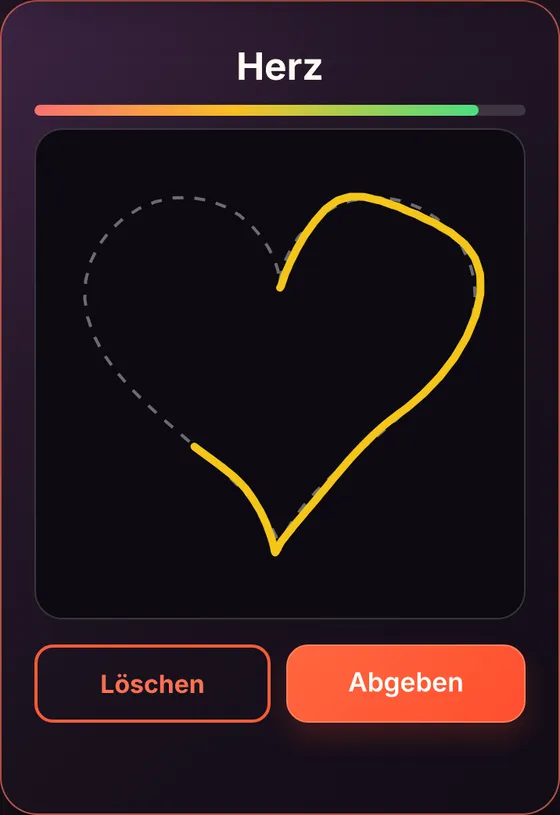
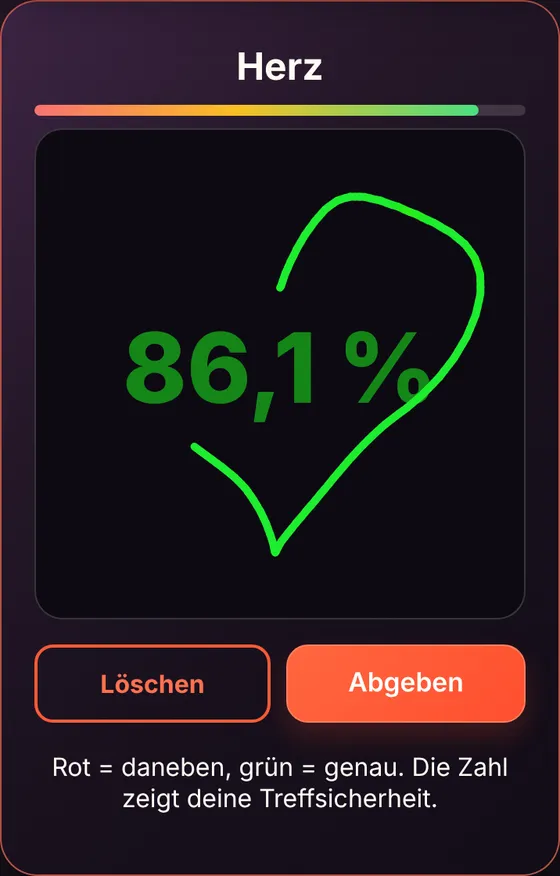
v438: Nachmalen mit Live-Prozent, rot/gruener Strich, Vorlage verschwindet; Revierkampf: Gebiet sofort in Spielerfarbe, duenner Rahmen
Claude-Session: https://claude.ai/code/session_01Bq3j1UmgmmQRjdUKFtX7an

diff --git a/spiele/nachzeichnen/spiel.js b/spiele/nachzeichnen/spiel.js
@@ -15,7 +15,7 @@ import {
 } from "../../kern/firebase.js";
 import { spielerKarte, zeigeDebug, initBereitSystem } from "../../kern/ui.js";
 import { speichereWertung, punkteNachRang } from "../../kern/wertung.js";
-import { FORMEN, formPerId, waehleFormen, bewerteZeichnung, packe, entpacke, strichLaenge } from "./logik.js";
+import { FORMEN, formPerId, waehleFormen, bewerteZeichnung, packe, entpacke, strichLaenge, zielPunkte, abstandZuZiel, liveProzent, genauWert } from "./logik.js";
 
 const ZEIT_SEKUNDEN = 30;
 const AUSWERTUNG_PUFFER_MS = 12000;   // Sicherheitsnetz, falls jemand nie abgibt
@@ -28,7 +28,9 @@ const FARBEN = ["#f87171", "#60a5fa", "#4ade80", "#fbbf24", "#c084fc", "#f472b6"
 const VORLAGE = `
   <div id="nz-setup" class="bildschirm-karte" hidden>
     <p class="hinweis-text">Alle sehen dieselbe Form als gestrichelte Vorlage - vom Haus bis zur Spirale.
-      Zeichne sie mit dem Finger möglichst genau nach, du hast 30 Sekunden. Wer am genauesten zeichnet,
+      Sobald du den Finger aufsetzt, verschwindet die Vorlage: du musst sie dir merken und aus dem Gedächtnis
+      zeichnen. Beim Malen siehst du live deine Treffsicherheit, der Strich wird rot (daneben) oder grün (genau).
+      Du hast 30 Sekunden. Wer am genauesten zeichnet,
       bekommt die meisten Punkte. Mit "Löschen" darfst du neu ansetzen, mit "Abgeben" zählt es.</p>
 
     <div id="nz-anzahl-zeile" class="setup-anzahlblock" hidden>
@@ -197,7 +199,7 @@ export function raumDaten(daten) {
   const neuerStart = daten.nzStart ?? 0;
   if (status === "runde_aktiv" && (rundenIndex !== neuerIndex || startZeit !== neuerStart)) {
     rundenIndex = neuerIndex;
-    startZeit = neuerStart;
+    startZeit = neuerStart; vorlageWeg = false;
     striche = []; aktuellerStrich = null; abgegeben = false; auswertungLaeuft = false;
   } else if (status === "ausgewertet") {
     rundenIndex = neuerIndex;
@@ -341,14 +343,62 @@ function striceZeichnen(ctx, css, liste, farbe, breite, alpha = 1) {
   ctx.restore();
 }
 
+let zielCache = null, zielCacheId = "", vorlageWeg = false;
+function zielFuerRunde() {
+  const id = formIds[rundenIndex];
+  if (zielCacheId !== id) { zielCache = zielPunkte(formPerId(id)); zielCacheId = id; }
+  return zielCache;
+}
+const farbeFuer = (t) => `hsl(${Math.round(t * 125)}, 85%, ${Math.round(46 + 6 * t)}%)`;
+
+// Strich Segment für Segment einfärben: rot = weit weg von der Form, grün = genau
+function liveStricheZeichnen(ctx, css, liste, ziel) {
+  ctx.save();
+  ctx.lineWidth = 5; ctx.lineCap = "round"; ctx.lineJoin = "round";
+  for (const st of liste) {
+    if (!st._w) st._w = [];
+    for (let i = st._w.length; i < st.length; i++) st._w[i] = genauWert(abstandZuZiel(st[i], ziel));
+    if (st.length === 1) continue;
+    for (let i = 1; i < st.length; i++) {
+      const [x0, y0] = bildPunkt(css, st[i - 1]), [x1, y1] = bildPunkt(css, st[i]);
+      ctx.strokeStyle = farbeFuer((st._w[i] + st._w[i - 1]) / 2);
+      ctx.beginPath(); ctx.moveTo(x0, y0); ctx.lineTo(x1, y1); ctx.stroke();
+    }
+  }
+  ctx.restore();
+}
+
 function zeichneRunde() {
   if (!el.wurzel) return;
   const canvas = $("nz-canvas");
   const { ctx, css } = richteCanvasEin(canvas);
   ctx.clearRect(0, 0, css, css);
-  vorlageZeichnen(ctx, css, formPerId(formIds[rundenIndex]));
   const meine = aktuellerStrich ? [...striche, aktuellerStrich] : striche;
-  striceZeichnen(ctx, css, meine, eigeneFarbe(), 5);
+  const ziel = zielFuerRunde();
+  const hatGemalt = meine.length > 0;
+  if (hatGemalt) vorlageWeg = true;
+  if (!vorlageWeg) vorlageZeichnen(ctx, css, formPerId(formIds[rundenIndex]));
+  // große Prozentzahl in der Mitte (Treffsicherheit live, nach dem Abgeben die Endwertung)
+  let zahl = null;
+  if (hatGemalt && abgegeben) {
+    const mein = antwortenDieserRunde(rundenIndex).find((a) => a.spielerId === api.spielerId);
+    zahl = mein && Number.isFinite(mein.genauigkeit) ? mein.genauigkeit : liveProzent(ziel, meine);
+  } else if (hatGemalt) zahl = liveProzent(ziel, meine);
+  if (zahl !== null) {
+    ctx.save();
+    ctx.textAlign = "center"; ctx.textBaseline = "middle";
+    ctx.font = `800 ${Math.round(css * 0.2)}px system-ui, sans-serif`;
+    ctx.fillStyle = farbeFuer(Math.max(0, Math.min(1, zahl / 90)));
+    ctx.globalAlpha = 0.55;
+    ctx.fillText(zahl.toFixed(1).replace(".", ",") + " %", css / 2, css / 2);
+    ctx.restore();
+  }
+  if (!abgegeben) {
+    $("nz-status").textContent = vorlageWeg
+      ? "Rot = daneben, grün = genau. Die Zahl zeigt deine Treffsicherheit."
+      : "Präg dir die Form ein - sie verschwindet, sobald du anfängst!";
+  }
+  liveStricheZeichnen(ctx, css, meine, ziel);
 }
 
 function eigeneFarbe() {

diff --git a/spiele/anleitungen-daten.js b/spiele/anleitungen-daten.js
@@ -1002,15 +1002,16 @@ ANLEITUNGEN.nachzeichnen = [
     s: () => T(160, 90, "Nachmalen!", 22, "#fff", 800)
   },
   {
-    t: "Nachzeichnen",
-    x: ["Zeichne die Form mit dem **Finger** möglichst genau auf der Vorlage nach. Du hast dafür **30 Sekunden** - der Balken oben zeigt die Restzeit.",
-      "Mit **Löschen** setzt du neu an, mit **Abgeben** zählt deine Zeichnung. Du darfst auch mehrmals absetzen. Läuft die Zeit ab, wird automatisch abgegeben."],
+    t: "Aus dem Gedächtnis malen",
+    x: ["Prägt dir die Form ein: **Sobald du den Finger aufsetzt, verschwindet die Vorlage** - du musst sie dir merken und aus dem Gedächtnis nachzeichnen. Du hast **30 Sekunden**, der Balken oben zeigt die Restzeit.",
+      "Beim Malen siehst du **live deine Treffsicherheit in Prozent**. Der Strich färbt sich **grün, wenn er genau auf der Form liegt**, und **rot, wenn er daneben liegt**.",
+      "Mit **Löschen** setzt du neu an (die Vorlage kommt nicht zurück), mit **Abgeben** zählt deine Zeichnung. Läuft die Zeit ab, wird automatisch abgegeben."],
     s: () => T(160, 90, "30 s", 40, "#fff", 800)
   },
   {
     t: "Genauigkeit und Punkte",
     x: ["Bewertet wird in **Prozent**: Wie dicht liegt deine Linie an der Vorlage - und hast du die **ganze Form** nachgezeichnet? Eine halbe Form oder ein Gekritzel bringt wenig.",
-      "Wer am **genauesten** ist, ist Platz 1. " + PL, "Wer nichts abgibt, bekommt 0 Punkte. Nach jeder Runde siehst du **alle Zeichnungen übereinander**.", RUNDEN, GW],
+      "Wer am **genauesten** ist, ist Platz 1. " + PL, "Wer nichts abgibt, bekommt 0 Punkte. Die Zahl beim Malen zählt nur die Treffsicherheit - in der Endwertung wird zusätzlich geprüft, ob du die **ganze Form** gemalt hast. Nach jeder Runde siehst du **alle Zeichnungen** samt Vorlage.", RUNDEN, GW],
     s: () => rang(70, 22, [["Du", "96 % · 5", 0], ["Luca", "81 % · 3", 1], ["Kevin", "65 % · 2", 2], ["Sinan", "37 % · 1", 3]], 180)
   }
 ];

diff --git a/spiele/nachzeichnen/logik.js b/spiele/nachzeichnen/logik.js
@@ -124,6 +124,20 @@ export function bewerteZeichnung(form, striche) {
   return Math.round(roh * vollstaendig * 1000) / 10;
 }
 
+// ---- Live-Anzeige beim Zeichnen
+export function zielPunkte(form) { return verdichte(form.pt, form.geschlossen, 0.025); }
+export function abstandZuZiel(p, ziel) { return naechsterAbstand(p, ziel); }
+// Toleranz-/Prozentformel wie bei der Endwertung, aber nur "Treffsicherheit" (ohne Lückenabzug),
+// damit die Zahl schon beim Zeichnen sinnvoll ist.
+export function liveProzent(ziel, striche) {
+  let summe = 0, n = 0;
+  for (const st of striche) for (const m of verdichte(st, false, 0.025)) { summe += naechsterAbstand(m, ziel); n++; }
+  if (!n) return null;
+  return Math.round(Math.pow(Math.max(0, 1 - summe / n / TOLERANZ), 1.2) * 1000) / 10;
+}
+// 0 (weit weg) .. 1 (genau) -> für die Farbe
+export function genauWert(d) { return Math.max(0, Math.min(1, 1 - (d - 0.03) / 0.12)); }
+
 // Mischt alle Formen und liefert die ersten n (bei mehr als vorhanden: nochmal gemischt hinten dran)
 export function waehleFormen(n) {
   const mische = () => {

diff --git a/spiele/anleitungen.js b/spiele/anleitungen.js
@@ -3,7 +3,7 @@
 //  Wird erst beim Klick auf "Spiele" (Startseite) geladen.
 // ============================================================================
 import { SPIELE } from "./register.js?v=335";
-import { ANLEITUNGEN, szene } from "./anleitungen-daten.js?v=437";
+import { ANLEITUNGEN, szene } from "./anleitungen-daten.js?v=438";
 
 const esc = (s) => String(s).replace(/&/g, "&amp;").replace(/</g, "&lt;").replace(/>/g, "&gt;");
 const fett = (s) => esc(s).replace(/\*\*(.+?)\*\*/g, "<strong>$1</strong>");
@@ -18,7 +18,7 @@ function vorladen(pfad) {
   img.decoding = "async";
   img.src = pfad;
 }
-const fotoPfad = (id, nr) => `bilder/anleitung/${id}-${nr + 1}.webp?v=437`;
+const fotoPfad = (id, nr) => `bilder/anleitung/${id}-${nr + 1}.webp?v=438`;
 function alleKachelnVorladen() { SPIELE.forEach((s) => vorladen(s.bild)); }
 function seitenVorladen(id) { (ANLEITUNGEN[id] || []).forEach((f, i) => { if (!f.ohneFoto) vorladen(fotoPfad(id, i)); }); }
 

diff --git a/spiele/revier/spiel.js b/spiele/revier/spiel.js
@@ -905,11 +905,15 @@ function baueSpielfeld(layout) {
     ctx.drawImage(boden, 0, 0, W, H);
     const l = lage(bm);
     if (l.modus === "sichern") {
-      ctx.fillStyle = "rgba(255,255,255,0.32)";
+      // Gebiet unter der eigenen Figur sofort in der eigenen Farbe zeigen (Vorschau);
+      // sichert jemand anderes es, wird es hier zur Farbe des anderen (Boden) und die Vorschau entfaellt.
+      ctx.fillStyle = farbeVon(api.spielerId);
+      ctx.globalAlpha = 0.9;
       for (let k = 0; k < w * h; k++) {
         if (reg[k] === l.g) ctx.fillRect(ox + (k % w) * c, oy + Math.floor(k / w) * c, Math.ceil(c), Math.ceil(c));
       }
-      kanten(l.g, "#fde047", Math.max(3, c * 0.2));
+      ctx.globalAlpha = 1;
+      kanten(l.g, "#fde047", Math.max(1.5, c * 0.08));
     }
     // Figuren der anderen (geglättet); wer schon ein Gebiet hat, steht in dessen Mitte
     const gesetzt = new Map();

diff --git a/app.js b/app.js
@@ -15,7 +15,7 @@ import {
 // Spiel-Fixes (spiele/<id>/spiel.js) verzoegert oder gar nicht mit.
 import { SPIELE, spielInfo } from "./spiele/register.js?v=335";
 
-export const APP_VERSION = "v437";
+export const APP_VERSION = "v438";
 const appVersion = document.getElementById("app-version");
 appVersion.textContent = "Version " + APP_VERSION;
 

diff --git a/sw.js b/sw.js
@@ -4,7 +4,7 @@
 // Nur dann wirft der Browser den alten Zwischenspeicher weg und alle Spieler
 // bekommen zuverlässig die neue Version. Das ist der einzige Handgriff, den man
 // nach dem Bearbeiten von Dateien nicht vergessen darf.
-const CACHE_NAME = "trollhouse-v437";
+const CACHE_NAME = "trollhouse-v438";
 
 const DATEIEN = [
   "./",

diff --git a/spiele/register.js b/spiele/register.js
@@ -18,7 +18,7 @@
 // in der Olympiade trotz Fix in v201/v202 teils noch bestehen lassen.
 // WICHTIG: bei jedem Versionssprung hier UND in app.js (Import von
 // register.js) mit hochzaehlen.
-const SPIEL_VERSION = "437";
+const SPIEL_VERSION = "438";
 
 export const SPIELE = [
   {
